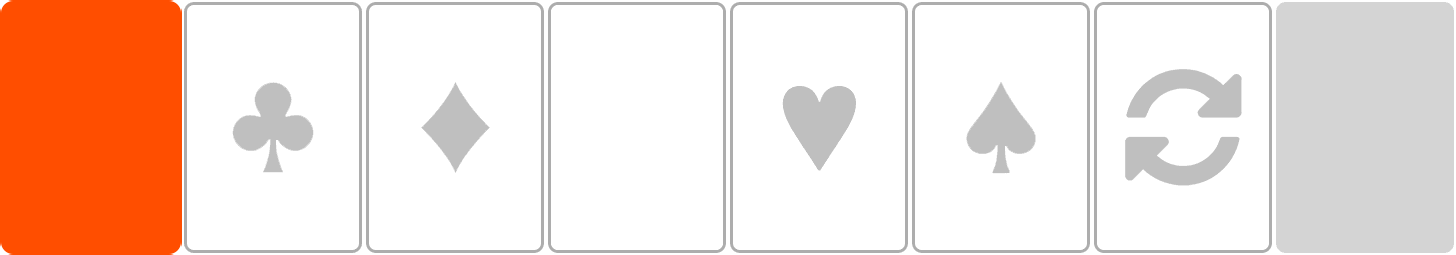
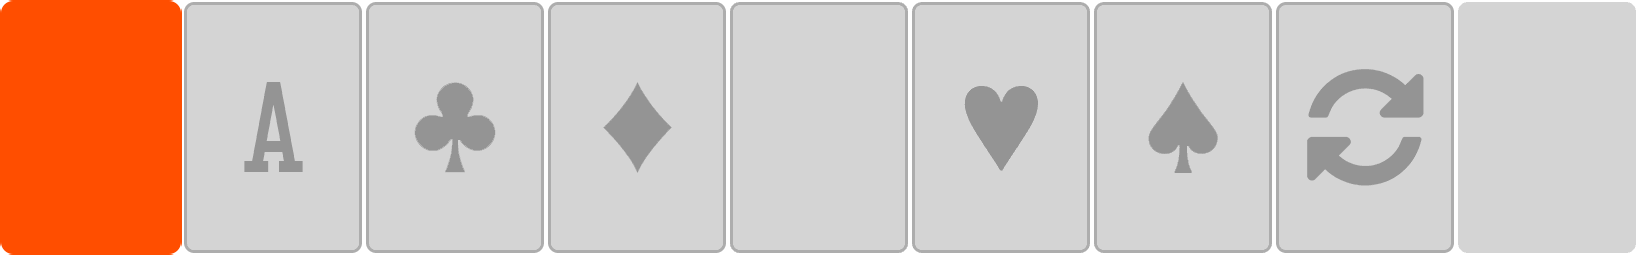
changes

diff --git a/src/scenes/UIScene.ts b/src/scenes/UIScene.ts
@@ -489,18 +489,18 @@ export class UIScene extends Phaser.Scene {
     private applyMobileLandscapeLayout()
     {
         if (!this.mobileUI) return;
-        // 11px gap between non-toggle neighbors; 1-card/3-card are flush (0 gap). Icons are 54px tall → 54 + 11 = 65 stride.
+        // Uniform 75px stride between all buttons (54 + 21 gap).
         // ec3 left column (settings/help/stats/night at x=20)
         this.mobileUI.settings.setXY(20, 0);
-        this.mobileUI.help.setXY(20, 65);
-        this.mobileUI.stats.setXY(20, 130);
-        this.mobileUI.night.setXY(20, 195);
-        // ec2 right column (toggle flush, then 11px gaps to hint/undo)
+        this.mobileUI.help.setXY(20, 75);
+        this.mobileUI.stats.setXY(20, 150);
+        this.mobileUI.night.setXY(20, 225);
+        // ec2 right column (toggle 1+3, then hint, undo — all 75px stride)
         this.mobileUI.toggle.setPosition(-80, 0);
         this.mobileUI.toggle.icon1.setPosition(0, 0);
-        this.mobileUI.toggle.icon2.setPosition(0, 54);
-        this.mobileUI.hint.setXY(-80, 119);
-        this.mobileUI.undo.setXY(-80, 184);
+        this.mobileUI.toggle.icon2.setPosition(0, 75);
+        this.mobileUI.hint.setXY(-80, 150);
+        this.mobileUI.undo.setXY(-80, 225);
     }
 
     private applyMobilePortraitLayout()

diff --git a/public/style.css b/public/style.css
@@ -102,14 +102,28 @@ body {
     .brand { display: none; }
 }
 
-/* Smaller mobile landscape: shrink top-bar height and fonts by ~20% */
-@media (pointer: coarse) and (orientation: landscape) and (max-height: 500px) {
-    .top-bar { height: 36px; }
-    .game-stats { font-size: 16px; }
-    .game-links { font-size: 16px; }
-}
 
 /* Hide links on narrow viewports too — stats + brand take priority */
 @media (max-width: 700px) {
     .game-links { display: none; }
+}
+
+/* Mobile portrait: drop the optional links (Spider, Freecell) so Solitaire + Mahjong fit */
+@media (pointer: coarse) and (orientation: portrait) {
+    .game-link-optional { display: none; }
+}
+
+/* Mobile portrait: bring links back on the right, shrink bar + fonts */
+@media (pointer: coarse) and (orientation: portrait) {
+    .top-bar { height: 36px; }
+    .game-stats { font-size: 14px; }
+    .game-links { display: flex; font-size: 14px; }
+    .game-link:not(:last-child)::after { padding: 0 6px; }
+}
+
+/* Very small portrait phones (≤380px wide): even smaller fonts */
+@media (pointer: coarse) and (orientation: portrait) and (max-width: 380px) {
+    .game-stats { font-size: 12px; }
+    .game-links { font-size: 12px; }
+    .game-link:not(:last-child)::after { padding: 0 4px; }
 }

diff --git a/src/managers/CardLayoutManager.ts b/src/managers/CardLayoutManager.ts
@@ -17,7 +17,7 @@ class CardLayoutManager {
     foundIndicators: Phaser.GameObjects.Sprite[];
     outline: Phaser.GameObjects.Sprite;
     hintTimerEvent: any;
-    timeout: NodeJS.Timeout;
+    timeout: ReturnType<typeof setTimeout>;
 
     init(pileManager : PileManager)
     {
@@ -205,7 +205,7 @@ class CardLayoutManager {
             const y = FOUNDATION_COORDS_INIT.y;
 
             // Create a sprite for the foundation indicator
-            const foundationIndicator = scene.add.sprite(x, y, 'placeholders', 'foundation-empty.png');
+            const foundationIndicator = scene.add.sprite(x, y, 'placeholders', 'foundation-A.png');
             foundationIndicator.setDepth(-9000); // Ensure the indicator is below cards
             cont.add(foundationIndicator);
             // Optionally, customize the indicator with scale or tint

diff --git a/index.html b/index.html
@@ -19,8 +19,8 @@
     </div>
     <div class="brand">Solitär Kostenlos</div>
     <div class="game-links">
-      <a href="/spider" class="game-link"><span>Spider</span></a>
-      <a href="/freecell" class="game-link"><span>Freecell</span></a>
+      <a href="/spider" class="game-link game-link-optional"><span>Spider</span></a>
+      <a href="/freecell" class="game-link game-link-optional"><span>Freecell</span></a>
       <a href="/solitaire" class="game-link"><span>Solitaire</span></a>
       <a href="/mahjong" class="game-link"><span>Mahjong</span></a>
     </div>
